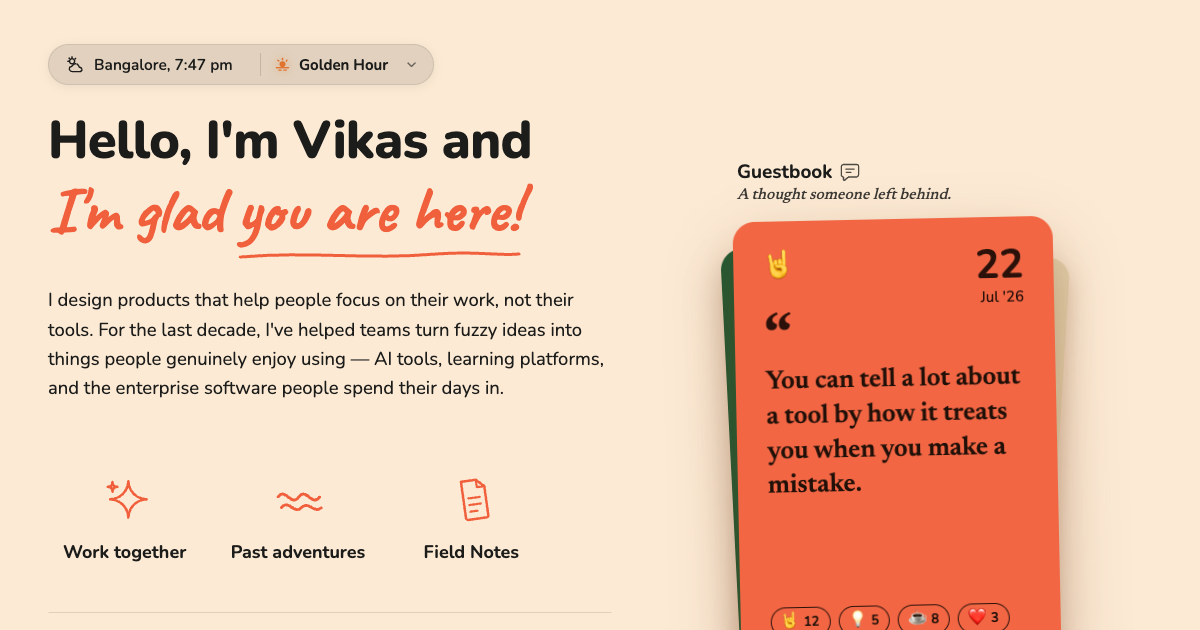
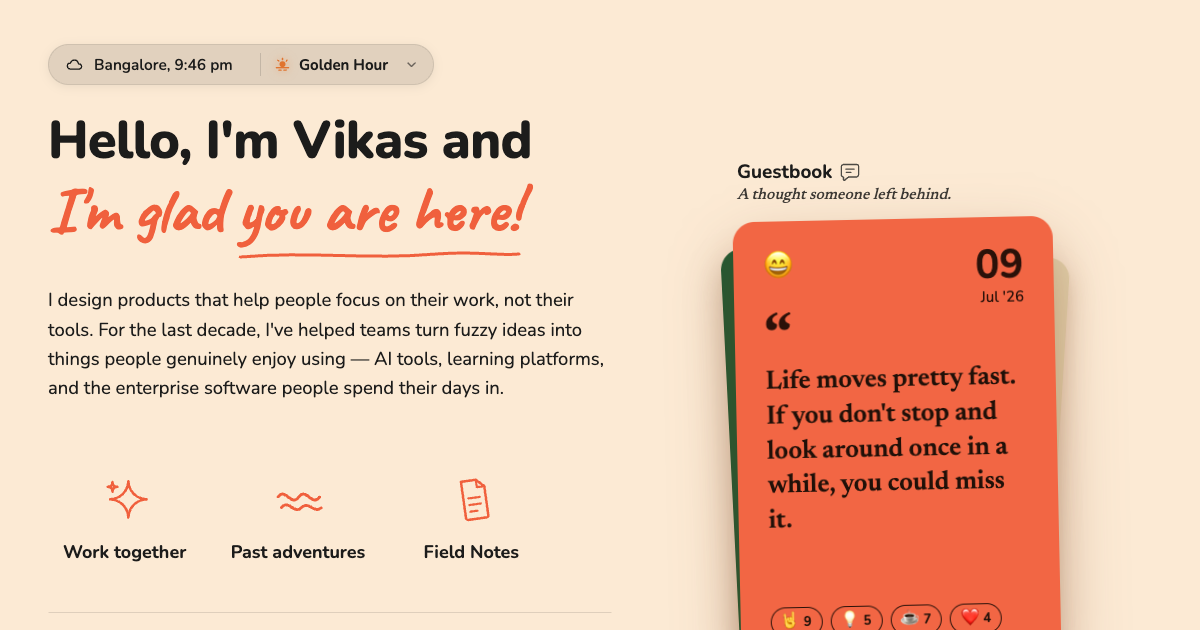
Per-card paper colors + curated guestbook notes
Every thought now owns one of four papers for life (coral, deep green,
tan, sage — drawn from the winter-trees reference palette) instead of
inheriting its slot's color, so a card no longer repaints itself as it
moves to the front. Each paper carries its own ink pair per theme (cream
ink on dark papers; tan and sage flip to cream at night). Notes you
write yourself stay on the coral card you wrote them on.

Replaces the seed thoughts with eleven curated notes (dates scattered
across the last 60 days, emojis drawn from the visitor picker set,
per-kind reactions 3-10) in both seeds.ts and a new 0002 migration.
Refreshed og.png to match the new front card.

diff --git a/src/lib/seeds.ts b/src/lib/seeds.ts
@@ -1,6 +1,6 @@
-/* Guestbook domain types + the six designed seed thoughts. These double as the
+/* Guestbook domain types + the curated seed thoughts. These double as the
    offline/fallback dataset when Supabase isn't configured — ids match the fixed
-   uuids inserted by supabase/migrations/0001_guestbook.sql. */
+   uuids inserted by supabase/migrations/0002_refresh_thoughts.sql. */
 
 export type StampKey = 'rock_on' | 'lightbulb' | 'coffee' | 'doodle'
 
@@ -35,56 +35,101 @@ export interface Thought {
 export const SEEDS: Thought[] = [
   {
     id: '5eed0000-0000-4000-8000-000000000001',
-    text: 'You can tell a lot about a tool by how it treats you when you make a mistake.',
-    emoji: '🤘',
-    day: '22',
+    text: "Life moves pretty fast. If you don't stop and look around once in a while, you could miss it.",
+    emoji: '😄',
+    day: '09',
     mon: 'Jul',
     yr: '26',
-    baseReactions: { rock_on: 12, lightbulb: 5, coffee: 8, doodle: 3 },
+    baseReactions: { rock_on: 9, lightbulb: 5, coffee: 7, doodle: 4 },
   },
   {
     id: '5eed0000-0000-4000-8000-000000000002',
-    text: 'I learned to care about a foam pattern on a wave nobody would ever see.',
-    emoji: '🌊',
-    day: '18',
+    text: 'what you take, owns you. What you give, sets you free',
+    emoji: '💛',
+    day: '04',
     mon: 'Jul',
     yr: '26',
-    baseReactions: { rock_on: 2, lightbulb: 4, coffee: 6, doodle: 9 },
+    baseReactions: { rock_on: 4, lightbulb: 6, coffee: 5, doodle: 10 },
   },
   {
     id: '5eed0000-0000-4000-8000-000000000003',
-    text: 'Desire paths are the ground quietly disagreeing with the architect.',
-    emoji: '🌱',
-    day: '15',
-    mon: 'Jul',
+    text: 'Never attribute to malice that which is adequately explained by incompetence',
+    emoji: '🤔',
+    day: '26',
+    mon: 'Jun',
     yr: '26',
-    baseReactions: { rock_on: 4, lightbulb: 11, coffee: 3, doodle: 5 },
+    baseReactions: { rock_on: 7, lightbulb: 9, coffee: 3, doodle: 5 },
   },
   {
     id: '5eed0000-0000-4000-8000-000000000004',
-    text: 'Airlines board planes in the slowest possible order and everyone just accepts it.',
-    emoji: '✈️',
-    day: '11',
-    mon: 'Jul',
+    text: 'Curiosity without a means to satisfy it is frustrating.',
+    emoji: '📚',
+    day: '19',
+    mon: 'Jun',
     yr: '26',
-    baseReactions: { rock_on: 7, lightbulb: 2, coffee: 5, doodle: 1 },
+    baseReactions: { rock_on: 5, lightbulb: 8, coffee: 6, doodle: 3 },
   },
   {
     id: '5eed0000-0000-4000-8000-000000000005',
-    text: 'The queue always feels faster when you can see it moving.',
-    emoji: '🤔',
-    day: '07',
-    mon: 'Jul',
+    text: 'kyu darein ke zindagi me kya hoga, kuch na hoga toh tajurba hoga',
+    emoji: '✌️',
+    day: '16',
+    mon: 'Jun',
     yr: '26',
-    baseReactions: { rock_on: 1, lightbulb: 3, coffee: 4, doodle: 2 },
+    baseReactions: { rock_on: 10, lightbulb: 4, coffee: 7, doodle: 6 },
   },
   {
     id: '5eed0000-0000-4000-8000-000000000006',
-    text: "A good checkout flow is one you can't remember afterwards.",
-    emoji: '✨',
-    day: '03',
-    mon: 'Jul',
+    text: 'a moving man surely meets his luck, the road favours the traveller',
+    emoji: '🌿',
+    day: '07',
+    mon: 'Jun',
     yr: '26',
-    baseReactions: { rock_on: 3, lightbulb: 6, coffee: 10, doodle: 4 },
+    baseReactions: { rock_on: 8, lightbulb: 3, coffee: 5, doodle: 7 },
+  },
+  {
+    id: '5eed0000-0000-4000-8000-000000000007',
+    text: 'We only get to sample a small taste of everything life has to offer, but in choosing deliberately, we are doing the most important job we were brought here to do',
+    emoji: '☕',
+    day: '01',
+    mon: 'Jun',
+    yr: '26',
+    baseReactions: { rock_on: 6, lightbulb: 10, coffee: 4, doodle: 8 },
+  },
+  {
+    id: '5eed0000-0000-4000-8000-000000000008',
+    text: 'You already know what to do, you are just negotiating with comfort',
+    emoji: '🎧',
+    day: '28',
+    mon: 'May',
+    yr: '26',
+    baseReactions: { rock_on: 7, lightbulb: 6, coffee: 9, doodle: 3 },
+  },
+  {
+    id: '5eed0000-0000-4000-8000-000000000009',
+    text: 'You can tell a lot about a tool by how it treats you when you make a mistake.',
+    emoji: '🌸',
+    day: '20',
+    mon: 'May',
+    yr: '26',
+    baseReactions: { rock_on: 9, lightbulb: 5, coffee: 8, doodle: 4 },
+  },
+  {
+    id: '5eed0000-0000-4000-8000-000000000010',
+    text: 'Desire paths are the ground quietly disagreeing with the architect.',
+    emoji: '🌱',
+    day: '16',
+    mon: 'May',
+    yr: '26',
+    baseReactions: { rock_on: 5, lightbulb: 9, coffee: 4, doodle: 6 },
+  },
+  {
+    id: '5eed0000-0000-4000-8000-000000000011',
+    text: 'The queue always feels faster when you can see it moving.',
+    emoji: '🤔',
+    day: '12',
+    mon: 'May',
+    yr: '26',
+    baseReactions: { rock_on: 3, lightbulb: 6, coffee: 7, doodle: 5 },
   },
 ]

diff --git a/src/features/guestbook/guestbook.css b/src/features/guestbook/guestbook.css
@@ -62,6 +62,33 @@
   flex-direction: column;
   will-change: transform;
   visibility: hidden; /* GSAP positions and reveals */
+  /* covers the write-mode coral morph and daypart palette shifts */
+  transition: background-color 0.5s ease;
+}
+
+/* --- paper --- */
+/* Each thought keeps its own paper through every slot (paper.ts assigns it).
+   Re-scoping the card ink vars makes text, dates and pills adapt per paper. */
+.gb-card[data-paper='coral'] {
+  background-color: var(--card-front);
+}
+.gb-card[data-paper='green'] {
+  background-color: var(--card-green);
+  --card-ink: var(--card-green-ink);
+  --card-ink-soft: var(--card-green-ink-soft);
+  --card-inkmuted: var(--card-green-inkmuted);
+}
+.gb-card[data-paper='tan'] {
+  background-color: var(--card-tan);
+  --card-ink: var(--card-tan-ink);
+  --card-ink-soft: var(--card-tan-ink-soft);
+  --card-inkmuted: var(--card-tan-inkmuted);
+}
+.gb-card[data-paper='sage'] {
+  background-color: var(--card-sage);
+  --card-ink: var(--card-sage-ink);
+  --card-ink-soft: var(--card-sage-ink-soft);
+  --card-inkmuted: var(--card-sage-inkmuted);
 }
 
 /* --- quote face --- */

diff --git a/src/styles/tokens.css b/src/styles/tokens.css
@@ -22,9 +22,20 @@
   --card-front: #f26644;
   --card-green: #1f5a33;
   --card-tan: #e3d2ac;
+  --card-sage: #b9c79c;
   --card-ink: #201008;
   --card-ink-soft: #2b1109;
   --card-inkmuted: rgba(43, 17, 9, 0.62);
+  /* per-paper ink pairs — coral keeps the default card ink; dark papers write in cream */
+  --card-green-ink: #f6ead2;
+  --card-green-ink-soft: #e9d8b6;
+  --card-green-inkmuted: rgba(246, 234, 210, 0.62);
+  --card-tan-ink: #201008;
+  --card-tan-ink-soft: #2b1109;
+  --card-tan-inkmuted: rgba(43, 17, 9, 0.62);
+  --card-sage-ink: #201008;
+  --card-sage-ink-soft: #2b1109;
+  --card-sage-inkmuted: rgba(43, 17, 9, 0.62);
 }
 
 [data-theme='dark'] {
@@ -42,7 +53,18 @@
   --card-front: #c34a31;
   --card-green: #27492f;
   --card-tan: #6f6250;
+  --card-sage: #5c6a4c;
   --card-ink: #1a0d06;
   --card-ink-soft: #2b1109;
   --card-inkmuted: rgba(26, 13, 6, 0.62);
+  /* lamp-lit papers deepen at night; tan and sage flip to cream ink */
+  --card-green-ink: #e6d9bd;
+  --card-green-ink-soft: #d8c8a6;
+  --card-green-inkmuted: rgba(230, 217, 189, 0.6);
+  --card-tan-ink: #f0e5cf;
+  --card-tan-ink-soft: #e0d2b4;
+  --card-tan-inkmuted: rgba(240, 229, 207, 0.62);
+  --card-sage-ink: #f0e5cf;
+  --card-sage-ink-soft: #e0d2b4;
+  --card-sage-inkmuted: rgba(240, 229, 207, 0.62);
 }

diff --git a/src/features/guestbook/paper.ts b/src/features/guestbook/paper.ts
@@ -1,0 +1,15 @@
+/* Each thought owns its paper color for life — a card never changes color as it
+   moves through the deck (paper doesn't repaint itself). The palette is warm
+   Scandinavian card stock: coral, deep green, tan, sage. */
+
+export type PaperKey = 'coral' | 'green' | 'tan' | 'sage'
+
+const PAPERS: PaperKey[] = ['coral', 'green', 'tan', 'sage']
+
+/* Notes you write yourself stay on the coral card you wrote them on. */
+export function paperFor(id: string): PaperKey {
+  if (id.startsWith('local-')) return 'coral'
+  let h = 0
+  for (let i = 0; i < id.length; i++) h = (h * 31 + id.charCodeAt(i)) >>> 0
+  return PAPERS[h % PAPERS.length]
+}

diff --git a/src/features/guestbook/deckLayout.ts b/src/features/guestbook/deckLayout.ts
@@ -1,8 +1,8 @@
 /* Pure stack geometry, ported verbatim from the DC. Slot 0 is the front card;
-   1 and 2 peek out misaligned behind it; deeper cards hide. */
+   1 and 2 peek out misaligned behind it; deeper cards hide.
+   Paper color is not slot geometry — each card keeps its own (see paper.ts). */
 
 export interface CardLayout {
-  bg: string
   tx: number
   ty: number
   rot: number
@@ -14,17 +14,16 @@ export interface CardLayout {
 
 export function slotLayout(p: number): CardLayout {
   if (p <= 0)
-    return { bg: 'var(--card-front)', tx: 0, ty: 0, rot: -1.2, sc: 1, z: 100, sh: '0 28px 58px rgba(122,56,24,0.36)', op: 1 }
+    return { tx: 0, ty: 0, rot: -1.2, sc: 1, z: 100, sh: '0 28px 58px rgba(122,56,24,0.36)', op: 1 }
   if (p === 1)
-    return { bg: 'var(--card-green)', tx: -12, ty: 15, rot: -4, sc: 0.965, z: 90, sh: '0 16px 34px rgba(96,58,26,0.26)', op: 1 }
+    return { tx: -12, ty: 15, rot: -4, sc: 0.965, z: 90, sh: '0 16px 34px rgba(96,58,26,0.26)', op: 1 }
   if (p === 2)
-    return { bg: 'var(--card-tan)', tx: 12, ty: 15, rot: 5, sc: 0.93, z: 80, sh: '0 12px 26px rgba(132,86,38,0.24)', op: 1 }
-  return { bg: 'var(--card-tan)', tx: 13, ty: 16, rot: 5, sc: 0.9, z: 80 - p, sh: '0 8px 18px rgba(132,86,38,0.14)', op: 0 }
+    return { tx: 12, ty: 15, rot: 5, sc: 0.93, z: 80, sh: '0 12px 26px rgba(132,86,38,0.24)', op: 1 }
+  return { tx: 13, ty: 16, rot: 5, sc: 0.9, z: 80 - p, sh: '0 8px 18px rgba(132,86,38,0.14)', op: 0 }
 }
 
 /** The front card lifting away: up-right with a tilt, shadow deepening first. */
 export const LIFT: CardLayout = {
-  bg: 'var(--card-front)',
   tx: 174,
   ty: -16,
   rot: 13,

diff --git a/src/features/guestbook/Deck.tsx b/src/features/guestbook/Deck.tsx
@@ -3,6 +3,7 @@ import { useGSAP } from '@gsap/react'
 import gsap from 'gsap'
 import type { GuestbookApi } from './useGuestbook'
 import { LIFT, NOTE_SHADOW, RAISED_SHADOW, nightShadow, slotLayout } from './deckLayout'
+import { paperFor } from './paper'
 import { QuoteCard } from './QuoteCard'
 import { WriteCard } from './WriteCard'
 import { ReactionBar } from './ReactionBar'
@@ -88,7 +89,6 @@ export function Deck({ gb }: { gb: GuestbookApi }) {
         const lifting = phase === 'lift' && isFront
         const slot = lifting ? LIFT : slotLayout(p)
         const z = lifting ? 999 : th.id === lastFlown && phase === 'settle' ? 999 : slot.z
-        const bgDur = phase === 'lift' ? DECK.bgLift : phase === 'settle' ? DECK.bgSettle : DECK.bgIdle
 
         return (
           <div
@@ -98,10 +98,9 @@ export function Deck({ gb }: { gb: GuestbookApi }) {
               else refs.current.delete(th.id)
             }}
             className="gb-card"
+            data-paper={isFront && mode === 'write' ? 'coral' : paperFor(th.id)}
             style={{
               zIndex: z,
-              backgroundColor: slot.bg,
-              transition: `background-color ${bgDur}s ease`,
               cursor: isFront && mode === 'read' ? 'pointer' : 'default',
             }}
             onClick={isFront && mode === 'read' ? gb.shuffle : undefined}

diff --git a/src/motion/tokens.ts b/src/motion/tokens.ts
@@ -43,10 +43,6 @@ export const DECK = {
   opacityLift: 0.25,
   opacitySettle: 0.46,
   opacityIdle: 0.32,
-  /** card background-color transition per phase (CSS-driven, keeps vars live) */
-  bgLift: 0.25,
-  bgSettle: 0.54,
-  bgIdle: 0.9,
   /** front card settles in from above, ~90ms after mount */
   enterDelayMs: 90,
   enterRaise: { y: -22, rot: 3 },